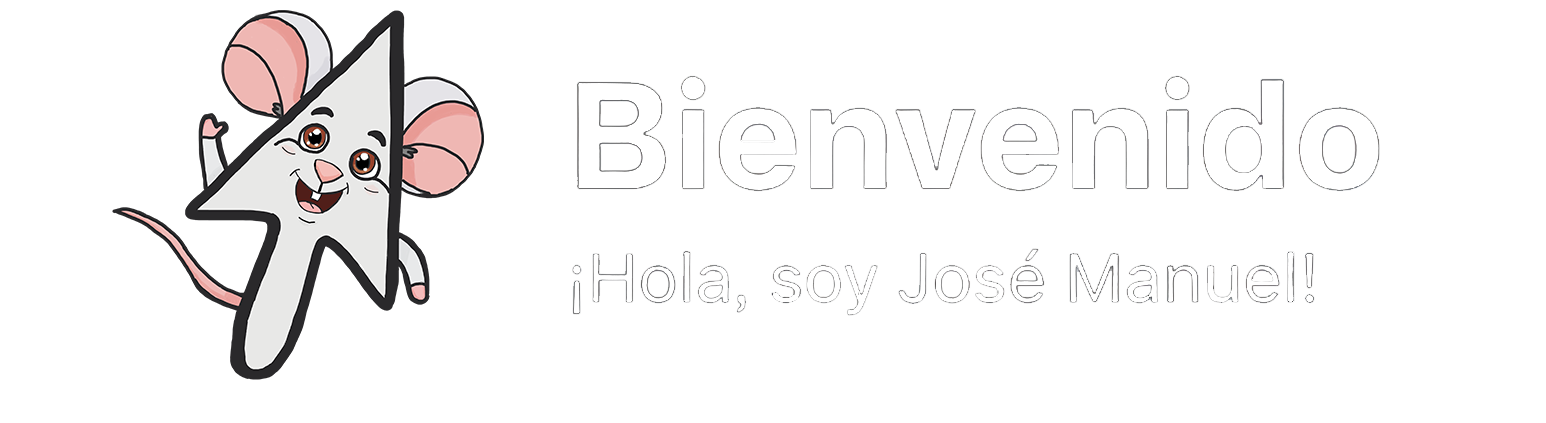
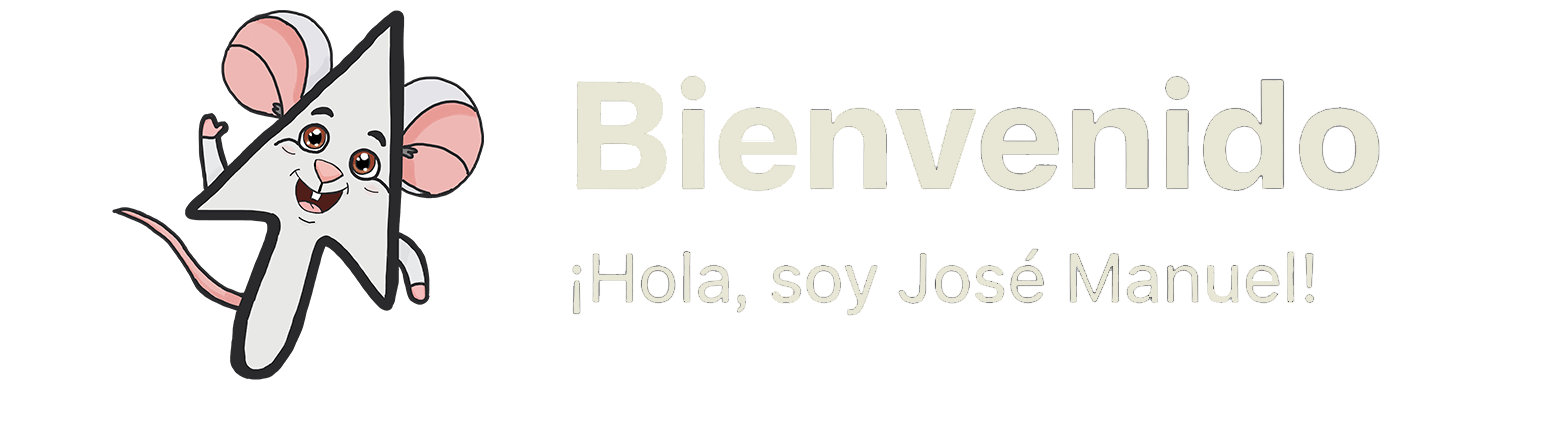
Fase 2.1: Tech Stack
- Añadida sección completa de Tech Stack (cabecera [imagen], texto e imágenes[iconos]).
- Actualizada la imagen de bienvenida con mejor contraste para modo claro/oscuro.

Changed region(s): [[0.3726, 0.1844, 0.9004, 0.461], [0.3726, 0.6147, 0.8693, 0.7376]]

diff --git a/README.md b/README.md
@@ -2,10 +2,17 @@
 
 
 ## Junior de Diseño y Desarrollo Web
-> Cuando el código descansa, yo salgo a buscar historias: en series, en bocetos de dibujo, en paseos... y entre las páginas de un buen libro. ¡Soy un ratón de biblioteca con conexión Wi-Fi!
+> Cuando no estoy codificando, me encontrarás viendo series, paseando o leyendo como un ratón de biblioteca.
 
 - Siempre estoy aprendiendo, experimentando con nuevas tecnologías.
 - Soy un entusiasta del aprendizaje continuo y me fascina explorar las últimas tendencias en front-end y back-end.
 - Mi objetivo es construir productos web que sean tanto visualmente atractivos como robustos en su funcionalidad.
-
 - Siempre abierto a colaborar en nuevas ideas y oportunidades.
+
+![TechStack](img/TechStack_copia.png)
+> Aquí están las tecnologías que estoy aprendiendo, dominando y ya domino.
+> 
+> Porque hasta el más curioso necesita sus herramientas bien afiladas…
+y el buen código —como el buen queso— solo se hace dominando las herramientas.
+
+![CSS3](https://img.shields.io/badge/css3-%231572B6.svg?style=for-the-badge&logo=css3&logoColor=white) ![Java](https://img.shields.io/badge/java-%23ED8B00.svg?style=for-the-badge&logo=openjdk&logoColor=white) ![HTML5](https://img.shields.io/badge/html5-%23E34F26.svg?style=for-the-badge&logo=html5&logoColor=white) ![JavaScript](https://img.shields.io/badge/javascript-%23323330.svg?style=for-the-badge&logo=javascript&logoColor=%23F7DF1E) ![Markdown](https://img.shields.io/badge/markdown-%23000000.svg?style=for-the-badge&logo=markdown&logoColor=white) ![PHP](https://img.shields.io/badge/php-%23777BB4.svg?style=for-the-badge&logo=php&logoColor=white) ![Python](https://img.shields.io/badge/python-3670A0?style=for-the-badge&logo=python&logoColor=ffdd54) ![Bootstrap](https://img.shields.io/badge/bootstrap-%238511FA.svg?style=for-the-badge&logo=bootstrap&logoColor=white) ![Apache](https://img.shields.io/badge/apache-%23D42029.svg?style=for-the-badge&logo=apache&logoColor=white) ![MySQL](https://img.shields.io/badge/mysql-4479A1.svg?style=for-the-badge&logo=mysql&logoColor=white) ![Krita](https://img.shields.io/badge/Krita-203759?style=for-the-badge&logo=krita&logoColor=EEF37B) ![Adobe Photoshop](https://img.shields.io/badge/adobe%20photoshop-%2331A8FF.svg?style=for-the-badge&logo=adobe%20photoshop&logoColor=white) ![GitHub](https://img.shields.io/badge/github-%23121011.svg?style=for-the-badge&logo=github&logoColor=white) ![Git](https://img.shields.io/badge/git-%23F05033.svg?style=for-the-badge&logo=git&logoColor=white)
